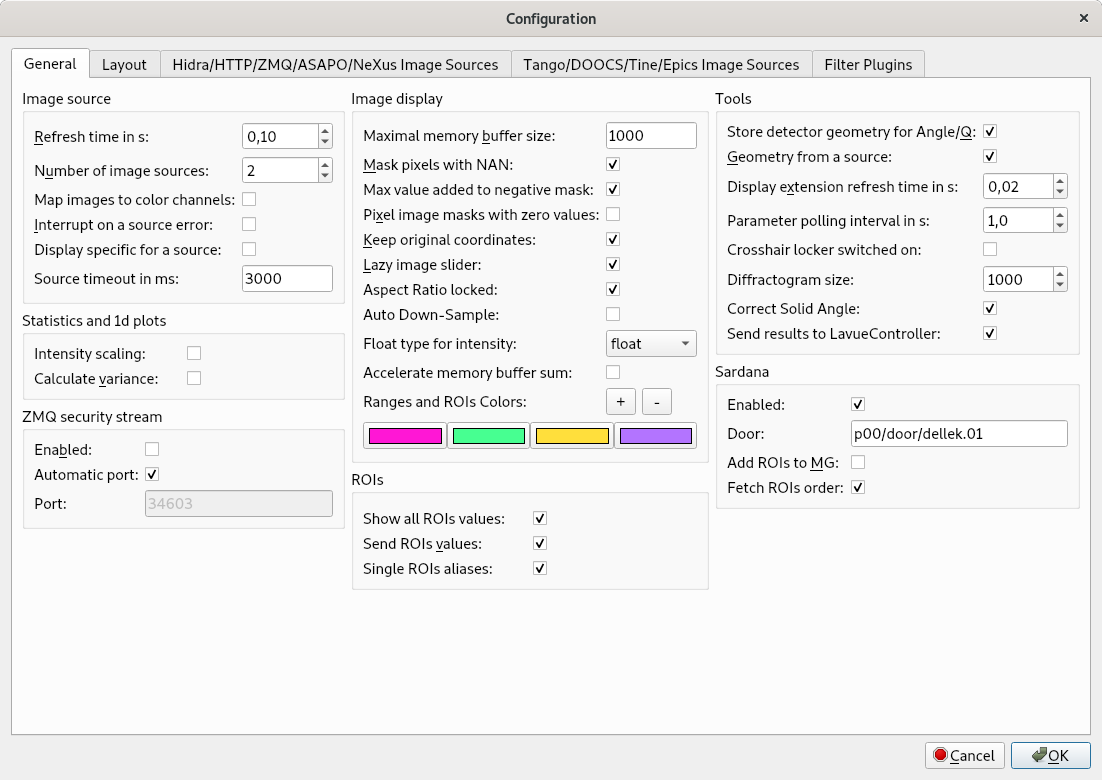
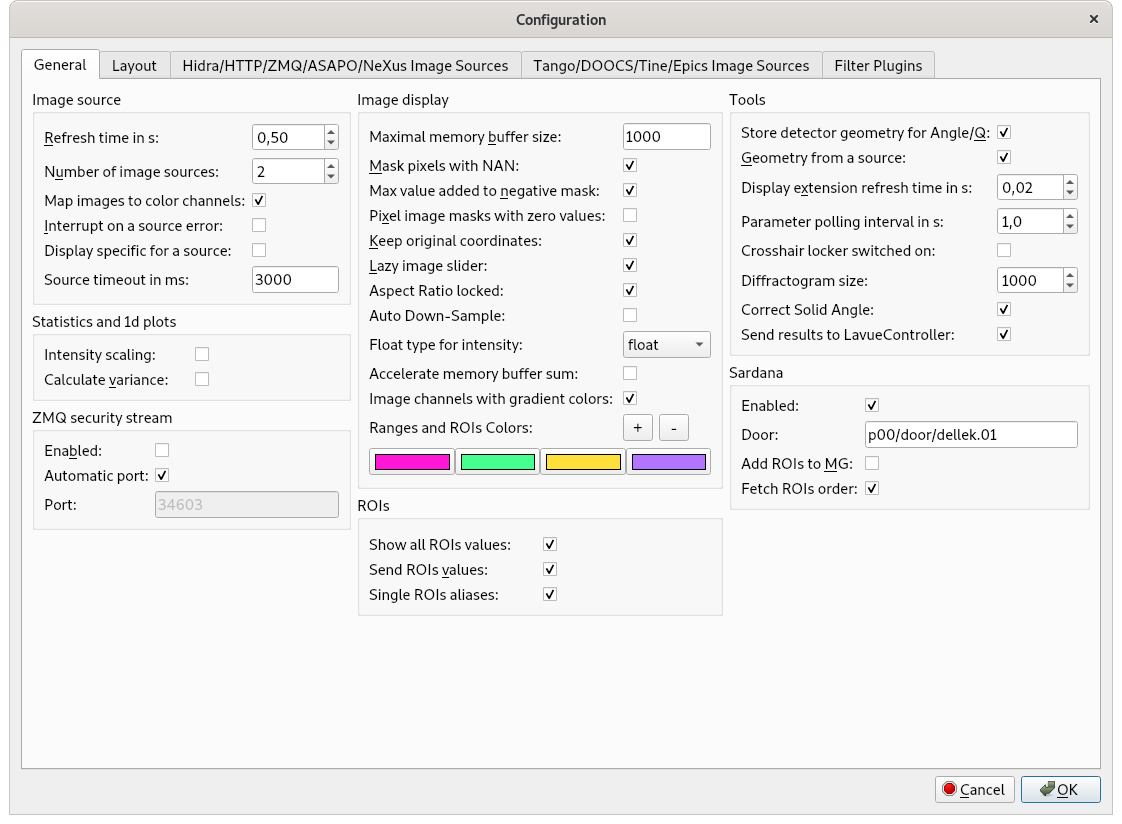
update help

diff --git a/lavuelib/help/LaVue---General-Settings_98092147.html b/lavuelib/help/LaVue---General-Settings_98092147.html
@@ -44,7 +44,7 @@
         
                         </div>
                     <div id="main-content" class="wiki-content group">
-                    <p>The first tab of the configuration dialog contains <strong>General Settings</strong>. It is divided into a few groups:</p><p><span class="confluence-embedded-file-wrapper confluence-embedded-manual-size"><img class="confluence-embedded-image"  src="attachments/98092147/145596264.png" data-image-src="attachments/98092147/145596264.png" data-unresolved-comment-count="0" data-linked-resource-id="145596264" data-linked-resource-version="8" data-linked-resource-type="attachment" data-linked-resource-default-alias="lavuegeneralconfig.png" data-base-url="https://confluence.desy.de" data-linked-resource-content-type="image/png" data-linked-resource-container-id="98092147" data-linked-resource-container-version="30"></span></p><p><strong>Image source</strong></p><ul><li><strong>Refresh rate in s: </strong>select a minimal time between consecutive frames</li><li><strong>Number of image sources:  </strong>a number of different image sources  from which images should be stitched</li><li><strong>Map images to color channels: </strong>places images form different image sources to separate color channels</li><li><strong>Interrupt on source errors: </strong>stops live image viewing on image source errors</li><li><strong>Display specific for a source:</strong> store/retrieve display parameters for an each image source separately</li><li><strong>Source timeout in ms:</strong> maximal time in milliseconds to wait for a response , e.g. from  Hidra or HTTP image sources</li></ul><p><strong>Statistics and 1d plots</strong></p><ul><li><strong>Intensity scaling:</strong> applies the intensity display scaling to image statistics and 1d-plots</li><li><strong>Calculate variance:</strong> perform calculations of variance from image pixel intensities</li></ul><p><strong>ZMQ security stream</strong></p><ul><li><strong>Enabled: </strong>turns on sending the ZMQ security stream with basic information about the image, e.g. maximal intensity</li><li><strong>Automatic port:</strong> selects a port number for the ZMQ security stream automatically</li><li><strong>Port: </strong>defines a port number for the ZMQ security stream</li></ul><p><strong>Image display</strong></p><ul><li><strong>Maximal memory buffer size:</strong> maximal frame number in the memory buffer</li><li><strong>Mask pixels with NAN: </strong>store masked pixels as a float Not-A-Number (NAN)</li><li><strong>Max value added to negative mask:</strong> add maximal type value of current image to the negative high value mask</li><li><strong>Pixel masks with zero values: </strong>causes that zero pixel values of mask image are interpreted as masking</li><li><strong>Keep original coordinates:</strong> causes the 2D-plot axes transforms with image transformation</li><li><strong>Lazy image slider: </strong>plot a new image after the image slider is focused out</li><li><strong>Aspect Ratio locked: </strong>sets the aspect ratio to 1:1 in the 2D-plot</li><li><strong>Auto Down-Sample:</strong> turns on auto-down-sampling mode of pyqtgraph</li><li><strong>Float type for</strong> <strong>intensity:  </strong>type to which intensity is converted if it is changed to float type</li><li><strong>Accelerate memory buffer sum:</strong> speeds up calculation of an image sum for the memory buffer tool</li><li><strong>Ranges and ROIs Colors:</strong> allows to defined colors of Ranges or ROIs selection frames. Colors are used cyclically</li></ul><p><strong>ROIs</strong></p><ul><li><strong>Show all ROIs values:</strong> calculates ROIs sum values for all ROI frames</li><li><strong>Send ROIs values:</strong> sends ROIs sum values to<code> LaVueController</code> tango server</li><li><strong>Single ROIs aliases:</strong> adds<code> rois1</code>, <code>roi2</code>, <code>roi3</code>,<code> ...</code> aliases if a number of rois is higher than their aliases</li></ul><p><strong>Tools</strong></p><ul><li><strong>Store de</strong><strong>tector geometry for </strong><strong>Angle/Q:</strong> store the detector geometry for the Angle/Q tool in the configuration settings</li><li><strong>Geometry form a source:</strong> fetch metadata parameters describing detector geometry from the image source</li><li><strong>Display extension refresh time in s: </strong>Minimum refresh time for display extensions</li><li><strong>Parameter polling interval in s: </strong>time in seconds between read-outs of detector tango attributes in the Parameters tool</li><li><strong>Crosshair locker switched on:</strong>  initial status of intensity crosshair locker</li><li><strong>Diffractogram size:</strong> number of points in the diffractogram</li><li><strong>Correct Solid Angle:</strong> correct solid angle flag for diffractogram</li><li><strong>Send results to LavueController:</strong> sends the current tool results to <code>LaVueController</code> tango server</li></ul><p><strong>Sardana</strong></p><ul><li><strong>Enabled: </strong>turns on communication with Sardana</li><li><strong>Door: </strong>Door tango device to communicate with Sardana</li><li><strong>Add ROIs to MG:</strong> causes the ROIs Apply button adds the corresponding ROIs aliases into the current Sardana Measurement Group</li><li><strong>Fetch ROIs order: </strong>read a ROIs order from Sardana environment variables</li></ul><p><br/></p><p><br/></p><p><br/></p>
+                    <p>The first tab of the configuration dialog contains <strong>General Settings</strong>. It is divided into a few groups:</p><p><span class="confluence-embedded-file-wrapper confluence-embedded-manual-size"><img class="confluence-embedded-image"  src="attachments/98092147/145596264.png" data-image-src="attachments/98092147/145596264.png" data-unresolved-comment-count="0" data-linked-resource-id="145596264" data-linked-resource-version="8" data-linked-resource-type="attachment" data-linked-resource-default-alias="lavuegeneralconfig.png" data-base-url="https://confluence.desy.de" data-linked-resource-content-type="image/png" data-linked-resource-container-id="98092147" data-linked-resource-container-version="30"></span></p><p><strong>Image source</strong></p><ul><li><strong>Refresh rate in s: </strong>select a minimal time between consecutive frames</li><li><strong>Number of image sources:  </strong>a number of different image sources  from which images should be stitched</li><li><strong>Map images to color channels: </strong>places images form different image sources to separate color channels</li><li><strong>Interrupt on source errors: </strong>stops live image viewing on image source errors</li><li><strong>Display specific for a source:</strong> store/retrieve display parameters for an each image source separately</li><li><strong>Source timeout in ms:</strong> maximal time in milliseconds to wait for a response , e.g. from  Hidra or HTTP image sources</li></ul><p><strong>Statistics and 1d plots</strong></p><ul><li><strong>Intensity scaling:</strong> applies the intensity display scaling to image statistics and 1d-plots</li><li><strong>Calculate variance:</strong> perform calculations of variance from image pixel intensities</li></ul><p><strong>ZMQ security stream</strong></p><ul><li><strong>Enabled: </strong>turns on sending the ZMQ security stream with basic information about the image, e.g. maximal intensity</li><li><strong>Automatic port:</strong> selects a port number for the ZMQ security stream automatically</li><li><strong>Port: </strong>defines a port number for the ZMQ security stream</li></ul><p><strong>Image display</strong></p><ul><li><strong>Maximal memory buffer size:</strong> maximal frame number in the memory buffer</li><li><strong>Mask pixels with NAN: </strong>store masked pixels as a float Not-A-Number (NAN)</li><li><strong>Max value added to negative mask:</strong> add maximal type value of current image to the negative high value mask</li><li><strong>Pixel masks with zero values: </strong>causes that zero pixel values of mask image are interpreted as masking</li><li><strong>Keep original coordinates:</strong> causes the 2D-plot axes transforms with image transformation</li><li><strong>Lazy image slider: </strong>plot a new image after the image slider is focused out</li><li><strong>Aspect Ratio locked: </strong>sets the aspect ratio to 1:1 in the 2D-plot</li><li><strong>Auto Down-Sample:</strong> turns on auto-down-sampling mode of pyqtgraph</li><li><strong>Float type for</strong> <strong>intensity:  </strong>type to which intensity is converted if it is changed to float type</li><li><strong>Accelerate memory buffer sum:</strong> speeds up calculation of an image sum for the memory buffer tool</li><li><strong>Image channels with gradient colors:</strong> use gradient color maps to display pixel intensities in the RGB-channel  mode</li><li><strong>Ranges and ROIs Colors:</strong> allows to defined colors of Ranges or ROIs selection frames. Colors are used cyclically</li></ul><p><strong>ROIs</strong></p><ul><li><strong>Show all ROIs values:</strong> calculates ROIs sum values for all ROI frames</li><li><strong>Send ROIs values:</strong> sends ROIs sum values to<code> LaVueController</code> tango server</li><li><strong>Single ROIs aliases:</strong> adds<code> rois1</code>, <code>roi2</code>, <code>roi3</code>,<code> ...</code> aliases if a number of rois is higher than their aliases</li></ul><p><strong>Tools</strong></p><ul><li><strong>Store de</strong><strong>tector geometry for </strong><strong>Angle/Q:</strong> store the detector geometry for the Angle/Q tool in the configuration settings</li><li><strong>Geometry form a source:</strong> fetch metadata parameters describing detector geometry from the image source</li><li><strong>Display extension refresh time in s: </strong>Minimum refresh time for display extensions</li><li><strong>Parameter polling interval in s: </strong>time in seconds between read-outs of detector tango attributes in the Parameters tool</li><li><strong>Crosshair locker switched on:</strong>  initial status of intensity crosshair locker</li><li><strong>Diffractogram size:</strong> number of points in the diffractogram</li><li><strong>Correct Solid Angle:</strong> correct solid angle flag for diffractogram</li><li><strong>Send results to LavueController:</strong> sends the current tool results to <code>LaVueController</code> tango server</li></ul><p><strong>Sardana</strong></p><ul><li><strong>Enabled: </strong>turns on communication with Sardana</li><li><strong>Door: </strong>Door tango device to communicate with Sardana</li><li><strong>Add ROIs to MG:</strong> causes the ROIs Apply button adds the corresponding ROIs aliases into the current Sardana Measurement Group</li><li><strong>Fetch ROIs order: </strong>read a ROIs order from Sardana environment variables</li></ul><p><br/></p><p><br/></p><p><br/></p>
                     </div>
 
                                         </div><section><!-- <div class="pageSection group">

diff --git a/lavuelib/help/LaVue---Scaling-and-Display-Levels_98091959.html b/lavuelib/help/LaVue---Scaling-and-Display-Levels_98091959.html
@@ -41,7 +41,7 @@
         
                         </div>
                     <div id="main-content" class="wiki-content group">
-                    <p>In <strong>Display levels and colors</strong> user sets mapping between image pixel intensities and displayed colors on the 2D plot.</p><p><span class="confluence-embedded-file-wrapper confluence-embedded-manual-size"><img class="confluence-embedded-image"  src="attachments/98091959/109161805.png" data-image-src="attachments/98091959/109161805.png" data-unresolved-comment-count="0" data-linked-resource-id="109161805" data-linked-resource-version="1" data-linked-resource-type="attachment" data-linked-resource-default-alias="autolevels_lavue.png" data-base-url="https://confluence.desy.de" data-linked-resource-content-type="image/png" data-linked-resource-container-id="98091959" data-linked-resource-container-version="13"></span></p><ul><li><strong>scaling:</strong> <code>sqrt</code>, <code>linear</code> or <code>log</code> – basic intensity scale for 2D images<br/> applied to<code> Image Statistics/1D plot</code> or not  – depending on <code>Configuration</code></li><li><strong>Levels:</strong> maximum and minimum intensity displayed. It can be automatic or set by user</li><li><strong>Auto levels %: </strong>switch to automatic levels settings. You can provide the levels as a cut factor in % of the highest pick.</li><li><strong>Bin edges:</strong> bin edges algorithm for finding histogram levels</li><li><strong>Step:</strong> step parameter for the bin edges algorithm for finding histogram levels</li><li><strong>Histogram:</strong> set intensity levels and color gradients on histogram plot</li><li><strong>Color gradients:</strong> 12 various basic settings with possibility to adjust with ticks</li></ul><p>By clicking the right-mouse-button on the color gradient bar you can <strong>save</strong> or <strong>remove</strong> your current<strong> customize color gradient </strong>into the local configuration (only in the expert mode).</p><p>For <strong>multi-channel images</strong> user can select a separate <strong>color channel</strong>, a <strong>sum</strong> or <strong>mean</strong> of all color channels or an <strong>RGB</strong> view.</p><p>With <strong>Map images to color channels</strong> in  <code>Configuration/General </code>checked on the user can adjust intensity display levels for each image sources separately on <strong>RGB</strong> <strong>histogram</strong>,e.g.</p><pre>$ lavue -s test\;tangoattr -c \;sys/tg_test/1/double_image_ro -i linear --channel rgb -l green -x</pre><p>lunches lavue with two image sources: test and sys/tg_test/1/double_image_ro tango attribute</p><p><span class="confluence-embedded-file-wrapper confluence-embedded-manual-size"><img class="confluence-embedded-image"  src="attachments/98091959/226033522.png" data-image-src="attachments/98091959/226033522.png" data-unresolved-comment-count="0" data-linked-resource-id="226033522" data-linked-resource-version="2" data-linked-resource-type="attachment" data-linked-resource-default-alias="lavue_rgbhistogram.png" data-base-url="https://confluence.desy.de" data-linked-resource-content-type="image/png" data-linked-resource-container-id="98091959" data-linked-resource-container-version="22"></span></p><p>The test image source in the red channel has the intensity maximal value ~30 times larger than the tango image source image.  With the RGB histogram lavue adjusts the intensity levels separately for the each color channel so both images are visible in one time.</p><p>Other option to make both image visible is to use the <strong>WeightedSum </strong>filter from lavuelib.plugins.filters which performs the weighted sum of all channel images. </p><p><br/></p>
+                    <p>In <strong>Display levels and colors</strong> user sets mapping between image pixel intensities and displayed colors on the 2D plot.</p><p><span class="confluence-embedded-file-wrapper confluence-embedded-manual-size"><img class="confluence-embedded-image"  src="attachments/98091959/109161805.png" data-image-src="attachments/98091959/109161805.png" data-unresolved-comment-count="0" data-linked-resource-id="109161805" data-linked-resource-version="1" data-linked-resource-type="attachment" data-linked-resource-default-alias="autolevels_lavue.png" data-base-url="https://confluence.desy.de" data-linked-resource-content-type="image/png" data-linked-resource-container-id="98091959" data-linked-resource-container-version="13"></span></p><ul><li><strong>scaling:</strong> <code>sqrt</code>, <code>linear</code> or <code>log</code> – basic intensity scale for 2D images<br/> applied to<code> Image Statistics/1D plot</code> or not  – depending on <code>Configuration</code></li><li><strong>Levels:</strong> maximum and minimum intensity displayed. It can be automatic or set by user</li><li><strong>Auto levels %: </strong>switch to automatic levels settings. You can provide the levels as a cut factor in % of the highest pick.</li><li><strong>Bin edges:</strong> bin edges algorithm for finding histogram levels</li><li><strong>Step:</strong> step parameter for the bin edges algorithm for finding histogram levels</li><li><strong>Histogram:</strong> set intensity levels and color gradients on histogram plot</li><li><strong>Color gradients:</strong> 12 various basic settings with possibility to adjust with ticks</li></ul><p>By clicking the right-mouse-button on the color gradient bar you can <strong>save</strong> or <strong>remove</strong> your current<strong> customize color gradient </strong>into the local configuration (only in the expert mode).</p><p>For <strong>multi-channel images</strong> user can select a separate <strong>color channel</strong>, a <strong>sum</strong> or <strong>mean</strong> of all color channels or an <strong>RGB</strong> view.</p><p>With <strong>Map images to color channels</strong> in  <code>Configuration/General </code>checked on the user can adjust intensity display levels for each image sources separately on <strong>RGB</strong> <strong>histogram</strong>,e.g.</p><pre>$ lavue -s test\;tangoattr -c \;sys/tg_test/1/double_image_ro -i linear --channel rgb -l green -x</pre><p>lunches lavue with two image sources: test and sys/tg_test/1/double_image_ro tango attribute</p><p><span class="confluence-embedded-file-wrapper confluence-embedded-manual-size"><img class="confluence-embedded-image"  src="attachments/98091959/226033522.png" data-image-src="attachments/98091959/226033522.png" data-unresolved-comment-count="0" data-linked-resource-id="226033522" data-linked-resource-version="2" data-linked-resource-type="attachment" data-linked-resource-default-alias="lavue_rgbhistogram.png" data-base-url="https://confluence.desy.de" data-linked-resource-content-type="image/png" data-linked-resource-container-id="98091959" data-linked-resource-container-version="22"></span></p><p>The test image source in the red channel has the intensity maximal value ~30 times larger than the tango image source image.  With the RGB histogram lavue adjusts the intensity levels separately for the each color channel so both images are visible in one time.</p><p>To display RGB image channels with the <strong>gradient color maps  </strong> set <strong>Configuration → General → Image Display → Image channels with gradient colors</strong> i.e.</p><p><span class="confluence-embedded-file-wrapper confluence-embedded-manual-size"><img class="confluence-embedded-image" src="attachments/98091959/228772902.png" data-image-src="attachments/98091959/228772902.png" data-unresolved-comment-count="0" data-linked-resource-id="228772902" data-linked-resource-version="1" data-linked-resource-type="attachment" data-linked-resource-default-alias="lavue_multigradientcolors.png" data-base-url="https://confluence.desy.de" data-linked-resource-content-type="image/png" data-linked-resource-container-id="98091959" data-linked-resource-container-version="23"></span></p><p>Other option to make both image visible is to use the <strong>WeightedSum </strong>filter from lavuelib.plugins.filters which performs the weighted sum of all channel images. </p><p><br/></p>
                     </div>
 
                                         </div><section><!-- <div class="pageSection group">
